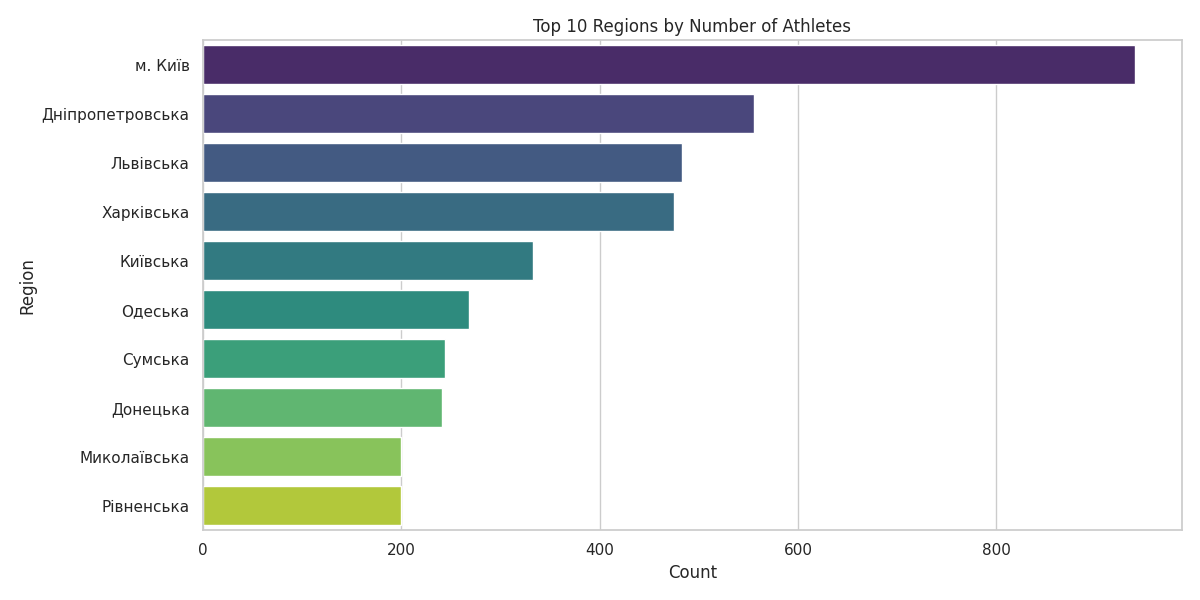
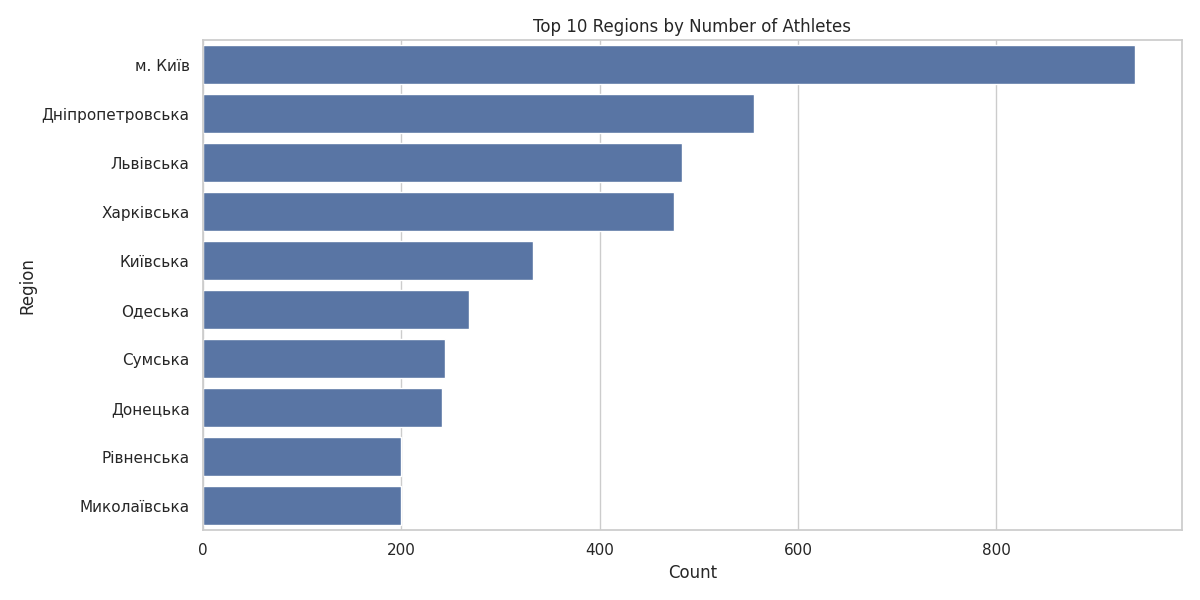
fix(visualization): fixed barplot visualization due to latest version of seaborn

Changed region(s): [[0.1542, 0.06, 0.9558, 0.9], [0.0617, 0.84, 0.1233, 0.87], [0.0617, 0.75, 0.1233, 0.78]]

diff --git a/src/data_visualization/data_visualization.py b/src/data_visualization/data_visualization.py
@@ -20,7 +20,8 @@ def create_visualizations(df):
     # 1. Visualization: Top 10 Regions (Bar Chart)
     plt.figure(figsize=(12, 6))
     region_counts = df['region'].value_counts().head(10)
-    sns.barplot(x=region_counts.values, y=region_counts.index, palette="viridis", hue=region_counts.index, legend=False)
+    region_counts_df = region_counts.reset_index()
+    sns.barplot(data=region_counts_df, x="count", y="region")
     plt.title("Top 10 Regions by Number of Athletes")
     plt.xlabel("Count")
     plt.ylabel("Region")
